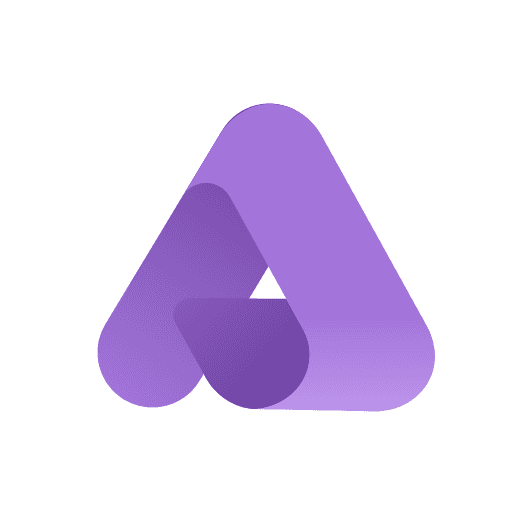
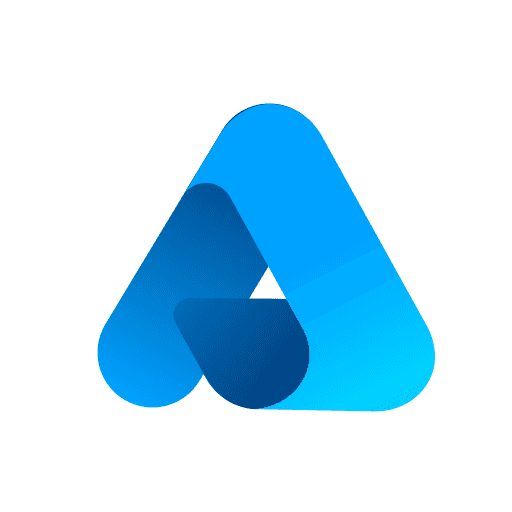
Aviate now blue again. Theme is switching based on url

Changed region(s): [[0.1875, 0.1875, 0.875, 0.8125]]

diff --git a/src/app.css b/src/app.css
@@ -20,8 +20,8 @@
 	--card-foreground: oklch(0.141 0.005 285.823);
 	--popover: oklch(1 0 0);
 	--popover-foreground: oklch(0.141 0.005 285.823);
-	--primary: oklch(0.606 0.25 292.717);
-	--primary-foreground: oklch(0.969 0.016 293.756);
+	--primary: oklch(0.558 0.226 262);
+	--primary-foreground: oklch(0.958 0.006 265);
 	--secondary: oklch(0.967 0.001 286.375);
 	--secondary-foreground: oklch(0.21 0.006 285.885);
 	--muted: oklch(0.967 0.001 286.375);
@@ -31,7 +31,7 @@
 	--destructive: oklch(0.577 0.245 27.325);
 	--border: oklch(0.92 0.004 286.32);
 	--input: oklch(0.92 0.004 286.32);
-	--ring: oklch(0.606 0.25 292.717);
+	--ring: oklch(0.558 0.226 262);
 	--chart-1: oklch(0.646 0.222 41.116);
 	--chart-2: oklch(0.6 0.118 184.704);
 	--chart-3: oklch(0.398 0.07 227.392);
@@ -39,12 +39,12 @@
 	--chart-5: oklch(0.769 0.188 70.08);
 	--sidebar: oklch(0.985 0 0);
 	--sidebar-foreground: oklch(0.141 0.005 285.823);
-	--sidebar-primary: oklch(0.606 0.25 292.717);
+	--sidebar-primary: oklch(0.558 0.226 262);
 	--sidebar-primary-foreground: oklch(0.969 0.016 293.756);
 	--sidebar-accent: oklch(0.967 0.001 286.375);
 	--sidebar-accent-foreground: oklch(0.21 0.006 285.885);
 	--sidebar-border: oklch(0.92 0.004 286.32);
-	--sidebar-ring: oklch(0.606 0.25 292.717);
+	--sidebar-ring: oklch(0.558 0.226 262);
 }
 .dark {
 	--background: oklch(0.141 0.005 285.823);
@@ -53,8 +53,8 @@
 	--card-foreground: oklch(0.985 0 0);
 	--popover: oklch(0.21 0.006 285.885);
 	--popover-foreground: oklch(0.985 0 0);
+	--primary: oklch(0.767 0.111 260);
 	--primary-foreground: oklch(0.243 0.03 284);
-	--primary: oklch(0.787 0.119 304);
 	--secondary: oklch(0.274 0.006 286.033);
 	--secondary-foreground: oklch(0.985 0 0);
 	--muted: oklch(0.274 0.006 286.033);
@@ -64,7 +64,7 @@
 	--destructive: oklch(0.756 0.13 2.76);
 	--border: oklch(1 0 0 / 10%);
 	--input: oklch(1 0 0 / 15%);
-	--ring: oklch(0.787 0.119 304);
+	--ring: oklch(0.767 0.111 260);
 	--chart-1: oklch(0.488 0.243 264.376);
 	--chart-2: oklch(0.696 0.17 162.48);
 	--chart-3: oklch(0.769 0.188 70.08);
@@ -72,12 +72,12 @@
 	--chart-5: oklch(0.645 0.246 16.439);
 	--sidebar: oklch(0.21 0.006 285.885);
 	--sidebar-foreground: oklch(0.985 0 0);
-	--sidebar-primary: oklch(0.787 0.119 304);
+	--sidebar-primary: oklch(0.767 0.111 260);
 	--sidebar-primary-foreground: oklch(0.969 0.016 293.756);
 	--sidebar-accent: oklch(0.274 0.006 286.033);
 	--sidebar-accent-foreground: oklch(0.985 0 0);
 	--sidebar-border: oklch(1 0 0 / 10%);
-	--sidebar-ring: oklch(0.787 0.119 304);
+	--sidebar-ring: oklch(0.767 0.111 260);
 }
 
 @import "./themes.css";

diff --git a/src/themes.css b/src/themes.css
@@ -1,15 +1,15 @@
 [data-theme="kayord"] {
-	--primary: oklch(0.558 0.226 262);
-	--primary-foreground: oklch(0.958 0.006 265);
-	--ring: oklch(0.558 0.226 262);
-	--sidebar-primary: oklch(0.558 0.226 262);
-	--sidebar-ring: oklch(0.558 0.226 262);
+	--primary: oklch(0.606 0.25 292.717);
+	--primary-foreground: oklch(0.969 0.016 293.756);
+	--ring: oklch(0.606 0.25 292.717);
+	--sidebar-primary: oklch(0.606 0.25 292.717);
+	--sidebar-ring: oklch(0.606 0.25 292.717);
 
 	&:where(.dark) {
-		--primary: oklch(0.767 0.111 260);
+		--primary: oklch(0.787 0.119 304);
 		--primary-foreground: oklch(0.243 0.03 284);
-		--ring: oklch(0.767 0.111 260);
-		--sidebar-primary: oklch(0.767 0.111 260);
-		--sidebar-ring: oklch(0.767 0.111 260);
+		--ring: oklch(0.787 0.119 304);
+		--sidebar-primary: oklch(0.787 0.119 304);
+		--sidebar-ring: oklch(0.787 0.119 304);
 	}
 }

diff --git a/src/routes/+layout.svelte b/src/routes/+layout.svelte
@@ -1,5 +1,5 @@
 <script lang="ts">
-	import { ModeWatcher } from "@kayord/ui/mode-watcher";
+	import { ModeWatcher, theme, setTheme } from "@kayord/ui/mode-watcher";
 	import "../app.css";
 	import { Toaster } from "@kayord/ui";
 	import { browser } from "$app/environment";
@@ -64,6 +64,15 @@
 				enabled: browser,
 			},
 		},
+	});
+
+	// const themeName = $derived(info.isKayord() ? "kayord" : "default");
+	$effect(() => {
+		const themeName = info.isKayord() ? "kayord" : "default";
+		if (theme.current != themeName) {
+			console.log("setting theme");
+			setTheme(themeName);
+		}
 	});
 </script>
 
